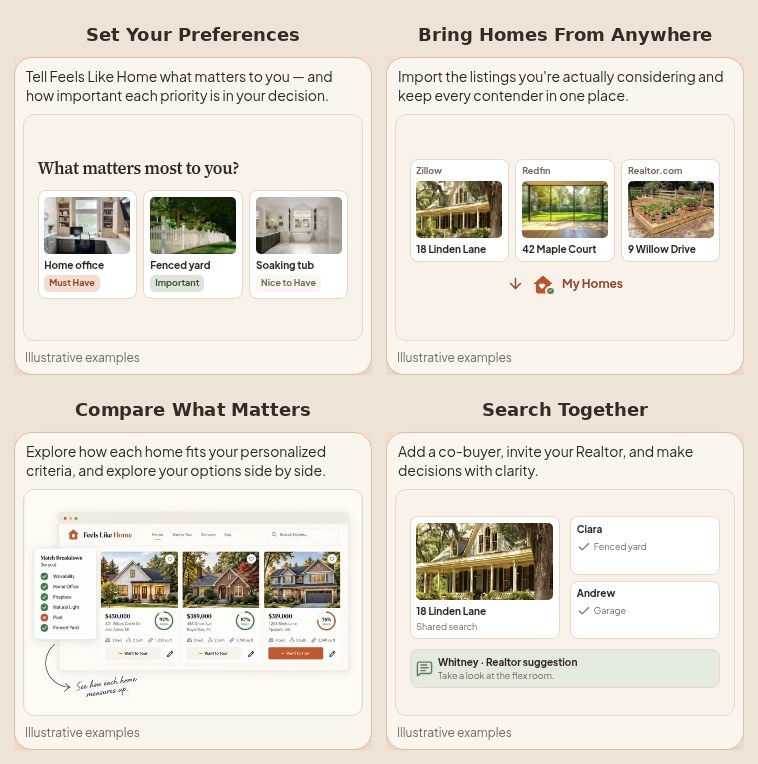
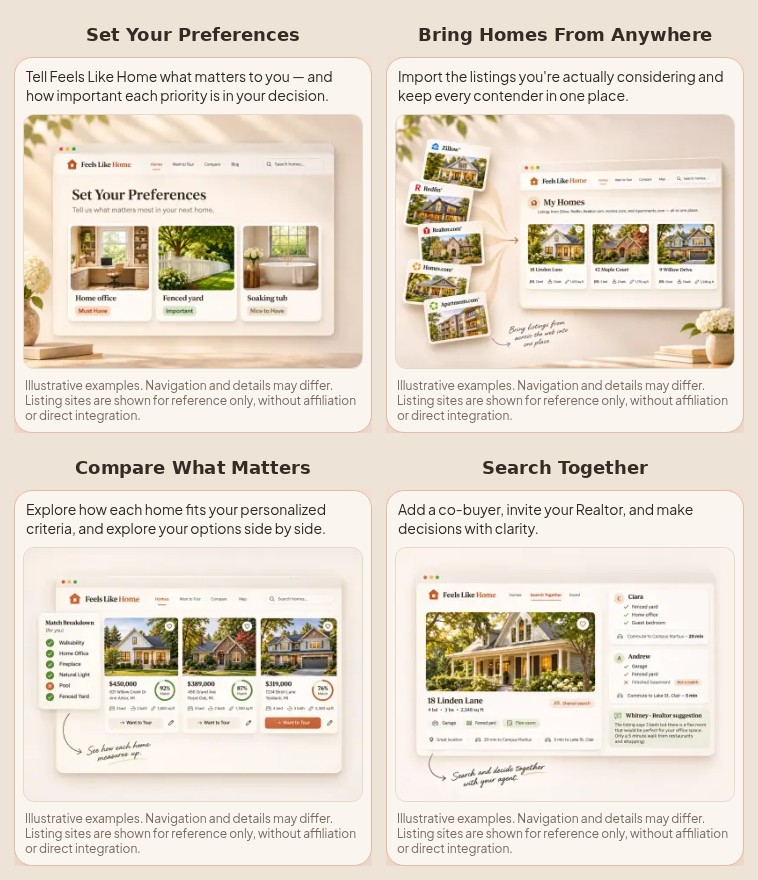
Use refined illustrations in homepage previews

diff --git a/src/components/PublicFeaturePreviews.jsx b/src/components/PublicFeaturePreviews.jsx
@@ -2,8 +2,7 @@
 
 import Image from 'next/image';
 import { useState } from 'react';
-import { ArrowDown, Check, Heart, HousePlus, ListChecks, MessageSquareText, Users } from 'lucide-react';
-import { BrandMark } from '@/components/ui';
+import { Heart, HousePlus, ListChecks, Users } from 'lucide-react';
 
 const features = [
   { id: 'priorities', Icon: ListChecks, title: 'Set Your Preferences', copy: 'Tell Feels Like Home what matters to you — and how important each priority is in your decision.' },
@@ -12,58 +11,12 @@ const features = [
   { id: 'collaborate', Icon: Users, title: 'Search Together', copy: 'Add a co-buyer, invite your Realtor, and make decisions with clarity.' },
 ];
 
-const priorityCards = [
-  { title: 'Home office', photo: 'home-office', level: 'Must Have', tier: 'must' },
-  { title: 'Fenced yard', photo: 'fenced-yard', level: 'Important', tier: 'important' },
-  { title: 'Soaking tub', photo: 'soaking-tub', level: 'Nice to Have', tier: 'nice' },
-];
-
-const listings = [
-  { source: 'Zillow', address: '18 Linden Lane', photo: 'front-porch' },
-  { source: 'Redfin', address: '42 Maple Court', photo: 'mature-trees' },
-  { source: 'Realtor.com', address: '9 Willow Drive', photo: 'garden-space' },
-];
-
-function PreviewPhoto({ name }) {
-  // The card's text identifies the fictional example. These photos are decorative.
-  return <div className="pl-preview-photo"><Image src={`/images/onboarding/${name}.webp`} alt="" fill sizes="(max-width: 640px) 30vw, 210px" /></div>;
-}
-
-function PreviewContent({ id }) {
-  switch (id) {
-    case 'listings':
-      return <div className="pl-preview-composition pl-preview-import">
-        <ul className="pl-preview-cards">
-          {listings.map(({ source, address, photo }) => <li key={source}>
-            <span className="pl-preview-source">{source}</span><PreviewPhoto name={photo} /><strong>{address}</strong>
-          </li>)}
-        </ul>
-        <div className="pl-preview-destination">
-          <ArrowDown aria-hidden="true" size={17} /><BrandMark size={24} /><strong>My Homes</strong>
-        </div>
-      </div>;
-    case 'compare':
-      return <Image className="pl-preview-match" src="/images/FLH Example.png" alt="Illustrated comparison with three homes, sample Match scores of 92%, 87%, and 76%, and a personal breakdown marking five priorities as met and Pool as a mismatch." fill sizes="(max-width: 900px) 100vw, 650px" />;
-    case 'collaborate':
-      return <div className="pl-preview-composition pl-preview-shared">
-        <div className="pl-preview-shared-home"><PreviewPhoto name="front-porch" /><strong>18 Linden Lane</strong><span>Shared search</span></div>
-        <div className="pl-preview-buyers">
-          <div><strong>Ciara</strong><span><Check size={14} aria-hidden="true" /> Fenced yard</span></div>
-          <div><strong>Andrew</strong><span><Check size={14} aria-hidden="true" /> Garage</span></div>
-        </div>
-        <div className="pl-preview-suggestion"><MessageSquareText size={17} aria-hidden="true" /><div><strong>Whitney · Realtor suggestion</strong><span>Take a look at the flex room.</span></div></div>
-      </div>;
-    default:
-      return <div className="pl-preview-composition pl-preview-priorities">
-        <h3>What matters most to you?</h3>
-        <ul className="pl-preview-cards">
-          {priorityCards.map(({ title, photo, level, tier }) => <li key={title}>
-            <PreviewPhoto name={photo} /><strong>{title}</strong><span className="pl-preview-tier" data-tier={tier}>{level}</span>
-          </li>)}
-        </ul>
-      </div>;
-  }
-}
+const previewAlt = {
+  priorities: 'Example priorities: home office is Must Have, fenced yard is Important, and soaking tub is Nice to Have.',
+  listings: 'Illustrated listing sources and a My Homes shortlist containing three fictional homes.',
+  compare: 'Three fictional homes with sample Match scores of 92%, 87%, and 76%. The example breakdown marks five priorities as met and Pool as a mismatch.',
+  collaborate: 'Ciara and Andrew see separate priority and commute examples for a shared home, alongside a suggestion from their Realtor Whitney.',
+};
 
 export default function PublicFeaturePreviews() {
   const [selected, setSelected] = useState(null);
@@ -110,8 +63,11 @@ export default function PublicFeaturePreviews() {
           {features.map(({ id, copy }) => <p key={id} aria-hidden={active !== id}>{copy}</p>)}
         </div>
         <span className="sr-only" role="status">{current.title} preview</span>
-        <div className="pl-preview-stage"><PreviewContent id={active} /></div>
-        <figcaption>Illustrative examples</figcaption>
+        <div className="pl-preview-stage">
+          <Image src={`/images/homepage-previews/${active}.webp`} alt={previewAlt[active]} fill
+            sizes="(max-width: 640px) calc(100vw - 50px), (max-width: 900px) calc(100vw - 76px), 672px" />
+        </div>
+        <figcaption>Illustrative examples. Navigation and details may differ. Listing sites are shown for reference only, without affiliation or direct integration.</figcaption>
       </figure>
     </section>
   );

diff --git a/src/app/globals.css b/src/app/globals.css
@@ -1357,29 +1357,8 @@ table.hh-table tr:hover td { background: rgba(193,89,47,0.035); }
 .pl-feature-preview { grid-area: preview; min-width: 0; align-self: center; margin: 0; padding: clamp(8px, 1.4vw, 18px); border: 1px solid #dfbda9; border-radius: 18px; background: var(--paper); box-shadow: 0 18px 35px -26px #79462e; }
 .pl-feature-preview > figcaption { margin: 9px 2px 1px; color: var(--ink-soft); font-size: .75rem; }
 .pl-mobile-feature-copy { display: none; }
-.pl-preview-stage { position: relative; display: grid; min-height: 11rem; aspect-ratio: 3 / 2; container-type: inline-size; border: 1px solid var(--line); border-radius: 11px; background: #f8f2ea; }
-.pl-preview-match { object-fit: contain; border-radius: inherit; }
-.pl-preview-composition { display: grid; align-content: center; gap: clamp(7px, 3cqw, 20px); min-width: 0; padding: clamp(7px, 4cqw, 26px); }
-.pl-preview-priorities h3 { margin: 0; font-size: clamp(1rem, 5cqw, 1.9rem); font-weight: 600; letter-spacing: -.02em; }
-.pl-preview-cards { display: grid; grid-template-columns: repeat(3, minmax(0, 1fr)); gap: clamp(5px, 2cqw, 14px); margin: 0; padding: 0; list-style: none; }
-.pl-preview-cards li, .pl-preview-shared-home, .pl-preview-buyers > div, .pl-preview-suggestion { min-width: 0; display: grid; align-content: start; gap: clamp(3px, 1.4cqw, 9px); padding: clamp(4px, 1.7cqw, 11px); border: 1px solid var(--line); border-radius: 8px; background: var(--paper-raised); }
-.pl-preview-photo { position: relative; aspect-ratio: 3 / 2; overflow: hidden; border-radius: 5px; background: var(--peach); }
-.pl-preview-photo img { object-fit: cover; }
-.pl-preview-cards strong, .pl-preview-shared strong { font-size: clamp(.625rem, 2.85cqw, 1rem); line-height: 1.2; overflow-wrap: anywhere; }
-.pl-preview-tier, .pl-preview-source, .pl-preview-shared span { font-size: clamp(.5625rem, 2.45cqw, .83rem); line-height: 1.18; overflow-wrap: anywhere; }
-.pl-preview-tier { justify-self: start; padding: 3px 5px; border-radius: 5px; background: var(--sage); color: #3f513a; font-weight: 700; }
-.pl-preview-tier[data-tier="must"] { background: var(--peach); color: var(--brick-deep); }
-.pl-preview-tier[data-tier="nice"] { background: var(--paper); color: var(--ink-soft); }
-.pl-preview-source { color: var(--ink-soft); font-weight: 650; }
-.pl-preview-destination { display: flex; align-items: center; justify-content: center; gap: 7px; color: var(--brick-deep); font-size: clamp(.75rem, 3cqw, 1rem); }
-.pl-preview-shared { grid-template-columns: 1fr 1fr; }
-.pl-preview-shared-home .pl-preview-photo { aspect-ratio: 16 / 9; }
-.pl-preview-shared span { color: var(--ink-soft); }
-.pl-preview-buyers { display: grid; gap: clamp(4px, 1.7cqw, 10px); }
-.pl-preview-buyers span { display: flex; align-items: center; gap: 3px; }
-.pl-preview-buyers svg, .pl-preview-suggestion svg { flex: none; color: var(--moss); }
-.pl-preview-suggestion { grid-column: 1 / -1; display: flex; align-items: center; background: #e5eadf; }
-.pl-preview-suggestion > div { display: grid; gap: 3px; }
+.pl-preview-stage { position: relative; aspect-ratio: 4 / 3; overflow: hidden; border: 1px solid var(--line); border-radius: 11px; background: #f8f2ea; }
+.pl-preview-stage img { object-fit: contain; }
 .pl-collaboration { padding: 60px max(24px, calc((100vw - 1200px) / 2)) 60px; background: var(--sage); }
 .pl-collaboration > header { max-width: 800px; margin-bottom: 28px; }
 .pl-collaboration > header h2 { margin: 0; font-size: clamp(1.85rem, 3.2vw, 2.8rem); font-weight: 600; line-height: 1.14; letter-spacing: -.025em; }

diff --git a/test/public-landing.test.js b/test/public-landing.test.js
@@ -33,11 +33,15 @@ test('mobile public navigation keeps every primary destination discoverable', ()
   assert.match(css, /\.pl-mobile-menu\{display:block/);
 });
 
-test('landing retains the approved cottage and Match illustration', () => {
+test('landing uses the approved cottage and four local preview illustrations', () => {
   assert.match(landing, /\/images\/Warm Cottage\.png/);
-  assert.match(previews, /\/images\/FLH Example\.png/);
+  assert.match(previews, /alt=\{previewAlt\[active\]\}/);
+  for (const panel of ['priorities', 'listings', 'compare', 'collaborate']) {
+    assert.ok(fs.existsSync(`public/images/homepage-previews/${panel}.webp`));
+  }
+  assert.match(css, /\.pl-preview-stage \{[^}]*aspect-ratio: 4 \/ 3/);
+  assert.match(previews, /without affiliation or direct integration/);
   assert.ok(fs.existsSync('public/images/Warm Cottage.png'));
-  assert.ok(fs.existsSync('public/images/FLH Example.png'));
   assert.match(previews, /Illustrative examples/);
 });
 

diff --git a/docs/founder-qa-phase-1c/README.md b/docs/founder-qa-phase-1c/README.md
@@ -22,13 +22,15 @@ The comparisons use CSS viewport widths. The before capture preserves the old wa
 | Surface | Source |
 | --- | --- |
 | Hero and brand | Existing approved `public/images/Warm Cottage.png` and shared `BrandMark`. |
-| Set Your Preferences | HTML/CSS cards reflecting existing importance tiers. Local onboarding photos `home-office.webp`, `fenced-yard.webp`, and `soaking-tub.webp`. |
-| Bring Homes From Anywhere | Original HTML/CSS fictional listing cards using `front-porch.webp`, `mature-trees.webp`, and `garden-space.webp` from local onboarding assets. Portal names are plain text labels. |
-| Compare What Matters | Existing approved `public/images/FLH Example.png` in its original aspect ratio with illustrative Match scores. |
-| Search Together | Original HTML/CSS product composition with the local `front-porch.webp` photo, separate buyer rows, and a labeled Realtor suggestion. |
+| Set Your Preferences | Founder-supplied `warm_home_preferences_dashboard.png` → `priorities.webp`. |
+| Bring Homes From Anywhere | Founder-supplied `all_your_favorite_listings_together.png` → `listings.webp`. |
+| Compare What Matters | Founder-supplied `feels_like_home_match_gallery.png` → `compare.webp`. |
+| Search Together | Founder-supplied `feels_like_home_shared_search.png` → `collaborate.webp`. |
 | Collaboration examples | Original copy and HTML/CSS. The street address and commute examples are illustrative. Whitney's note and the specified commute times are founder copy. |
 
-Only the displayed panel loads its artwork. The initial preferences example is rendered into the page before hydration. The visuals use local assets, existing fonts, and the existing icon package.
+The full compositions are preserved at 1448 × 1086. Lossy WebP conversion reduced the four supplied PNGs from about 7.6 MiB to 650 KiB combined. The shared 4:3 frame reserves space before the active image loads. The after captures and all preview-state screenshots show the refined artwork.
+
+The illustrations depict existing FLH priority tiers, adding listing links, personal Match views, and shared searches with Realtor suggestions. Their navigation is conceptual. For example, `Blog` and a dedicated `Search Together` tab are absent from the buyer shell. The visible caption explains that navigation and details may differ and that the listing-site logos indicate neither affiliation nor direct integration. Addresses, prices, commute times, and Match percentages are illustrative.
 
 ## Founder review
 
@@ -37,7 +39,13 @@ Only the displayed panel loads its artwork. The initial preferences example is r
 - [ ] Review the approved Match image and the distinction between a shared shortlist, individual priorities, and Whitney's suggestion.
 - [ ] Check the navigation menu, logo, How it works, footer, and For Realtors links. Confirm mobile uses the dedicated account pages and desktop opens the existing forms.
 
-## Verification
+## Refined artwork verification
+
+- Production build passed. The standard suite reported **1,412 passed, 0 failed, 253 skipped**. The optional PostgreSQL and live fixture tests were skipped for this artwork-only revision.
+- Chromium decoded all four responsive images at 320, 375, 390, 430, 768, and 1440 px. The initial page requested only the default image. Both the frame and figure height stayed constant through all four selections at each width.
+- Touch selection worked at phone widths. Desktop and tablet verified hover and keyboard focus before selection, activation with Space, and selection persistence while hovering another feature. Images retain their full framing and use panel-specific alt text.
+
+## Original Phase 1C verification
 
 - Production build passed. The full suite on local PostgreSQL reported **1,663 passed, 0 failed, 2 skipped**. Both skips require sanitized live RentCast fixtures. All 44 focused homepage, authentication-entry, Realtor-entry, and native welcome checks passed after the final CSS adjustment.
 - Chromium checked all four preview states at every requested width. Desktop hover and focus changed the preview before selection. Space selected a feature, mouse movement left that selection in place, and touch taps changed it. Figure height stayed constant across all selections at each tested width.
